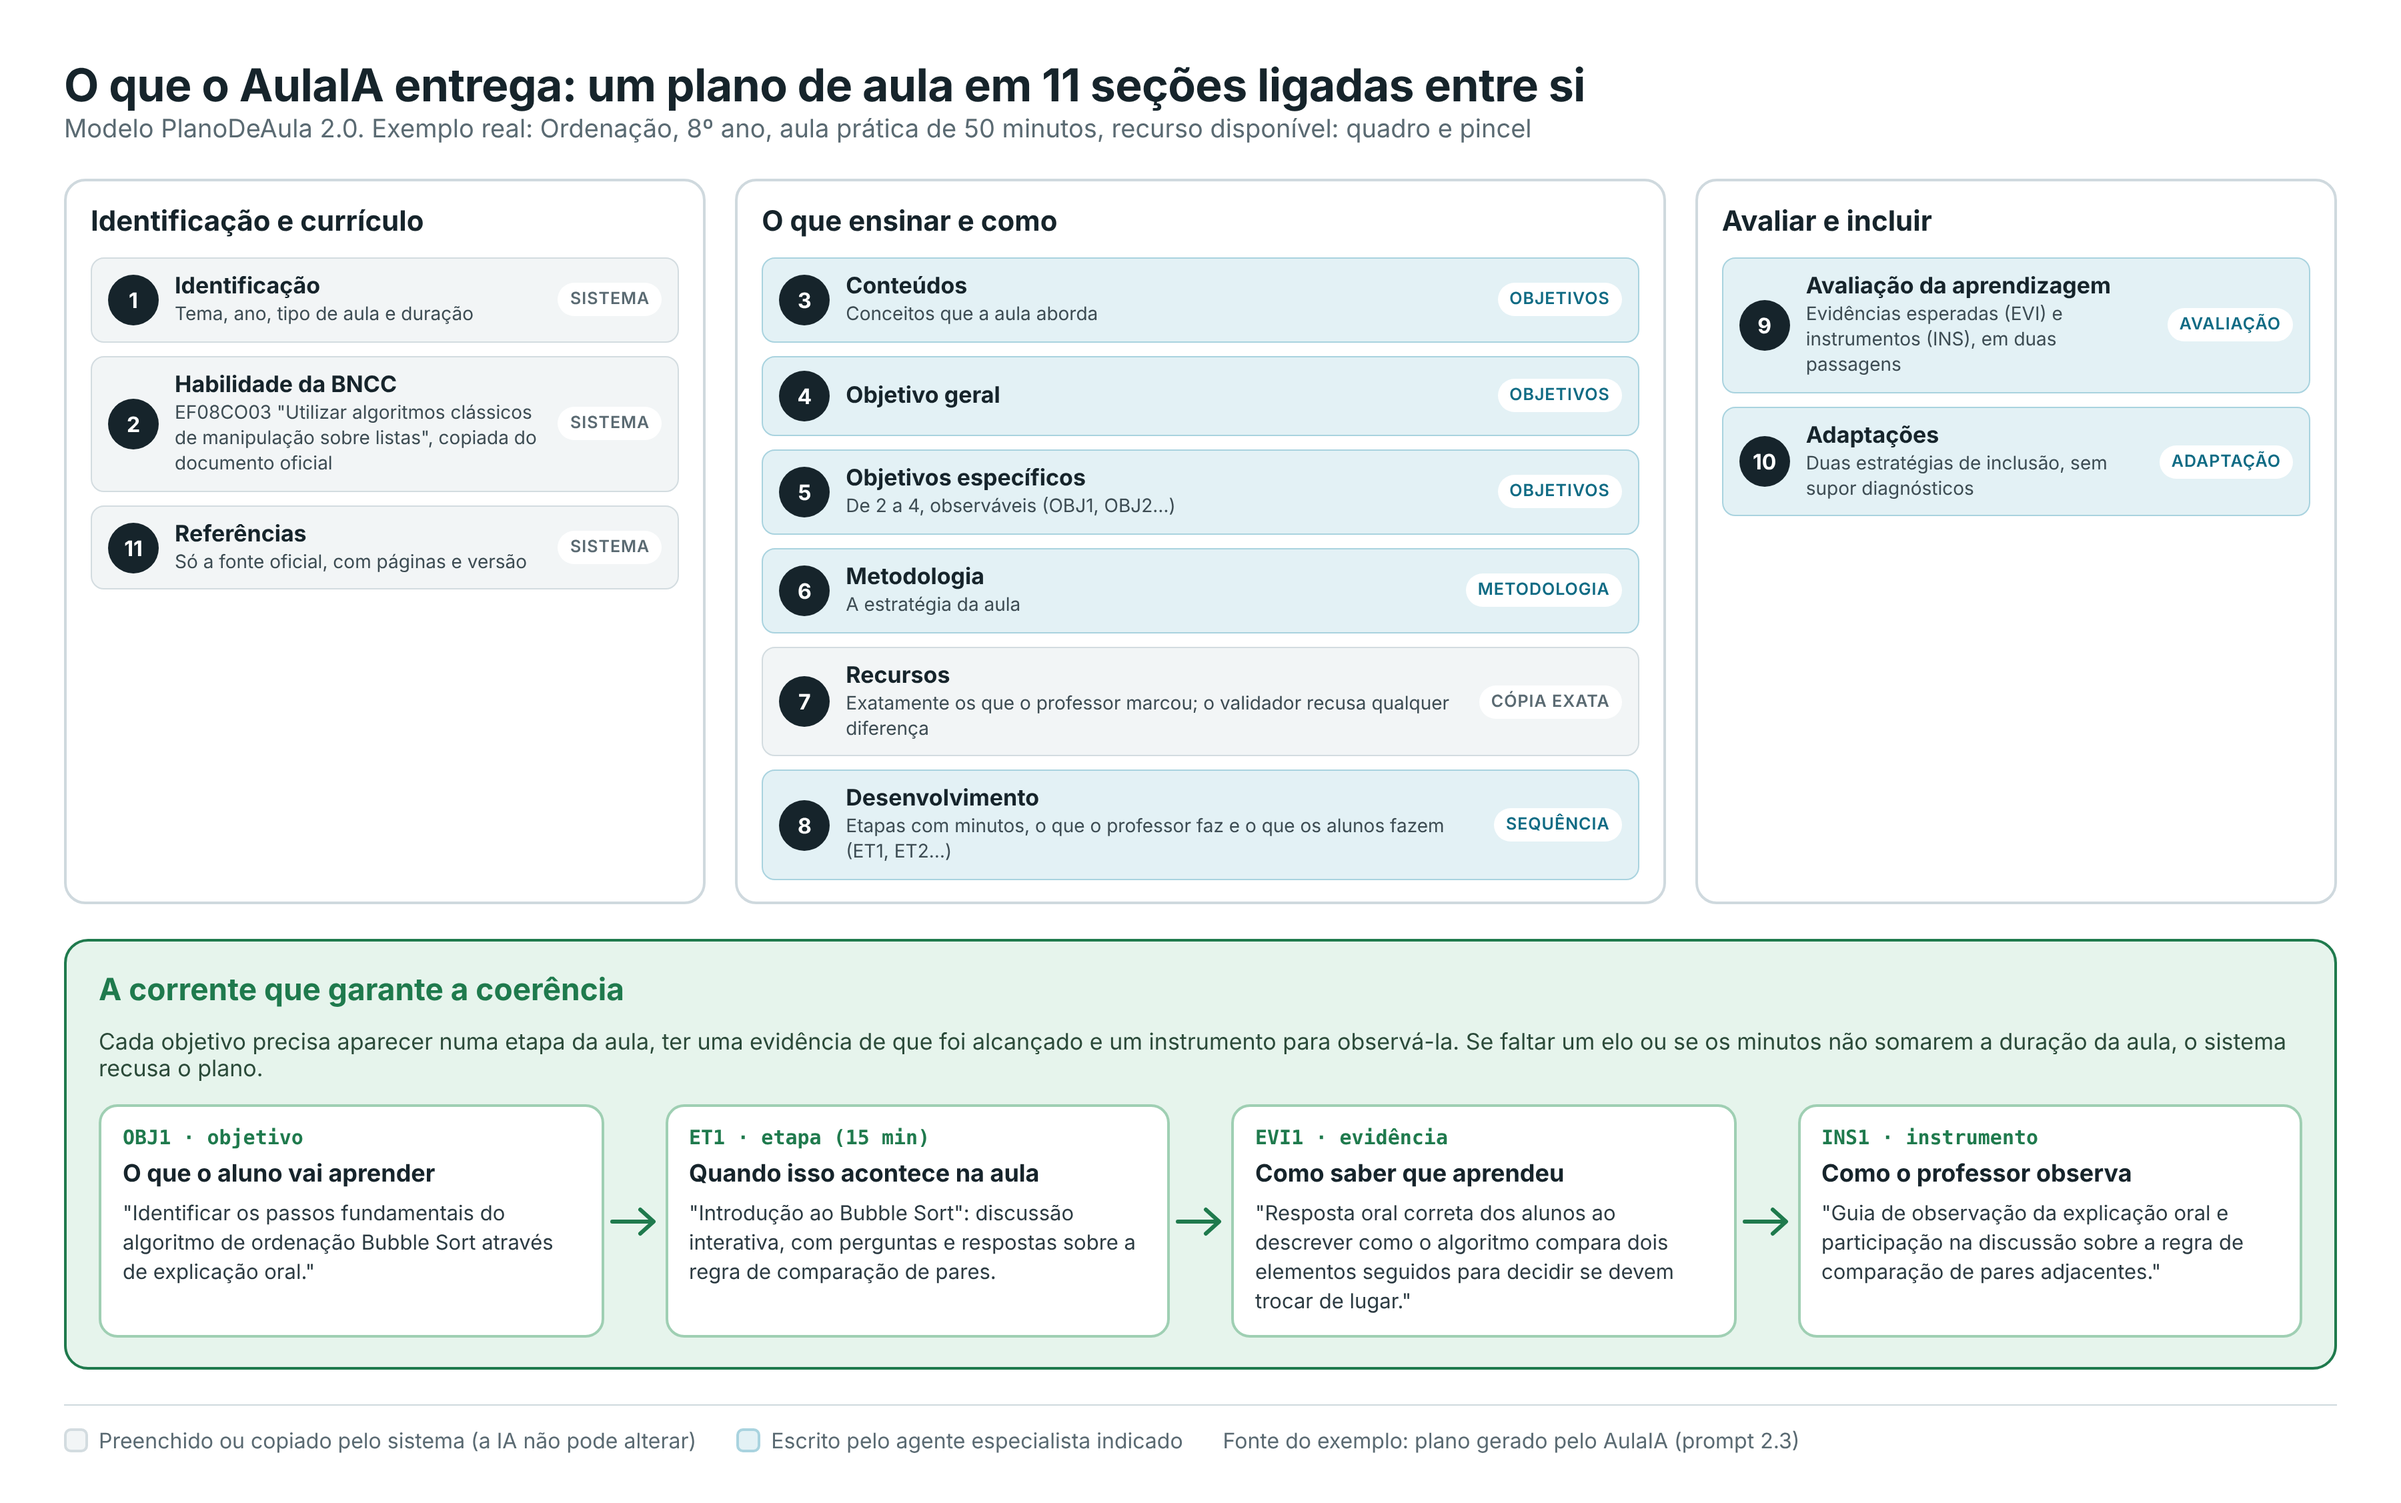
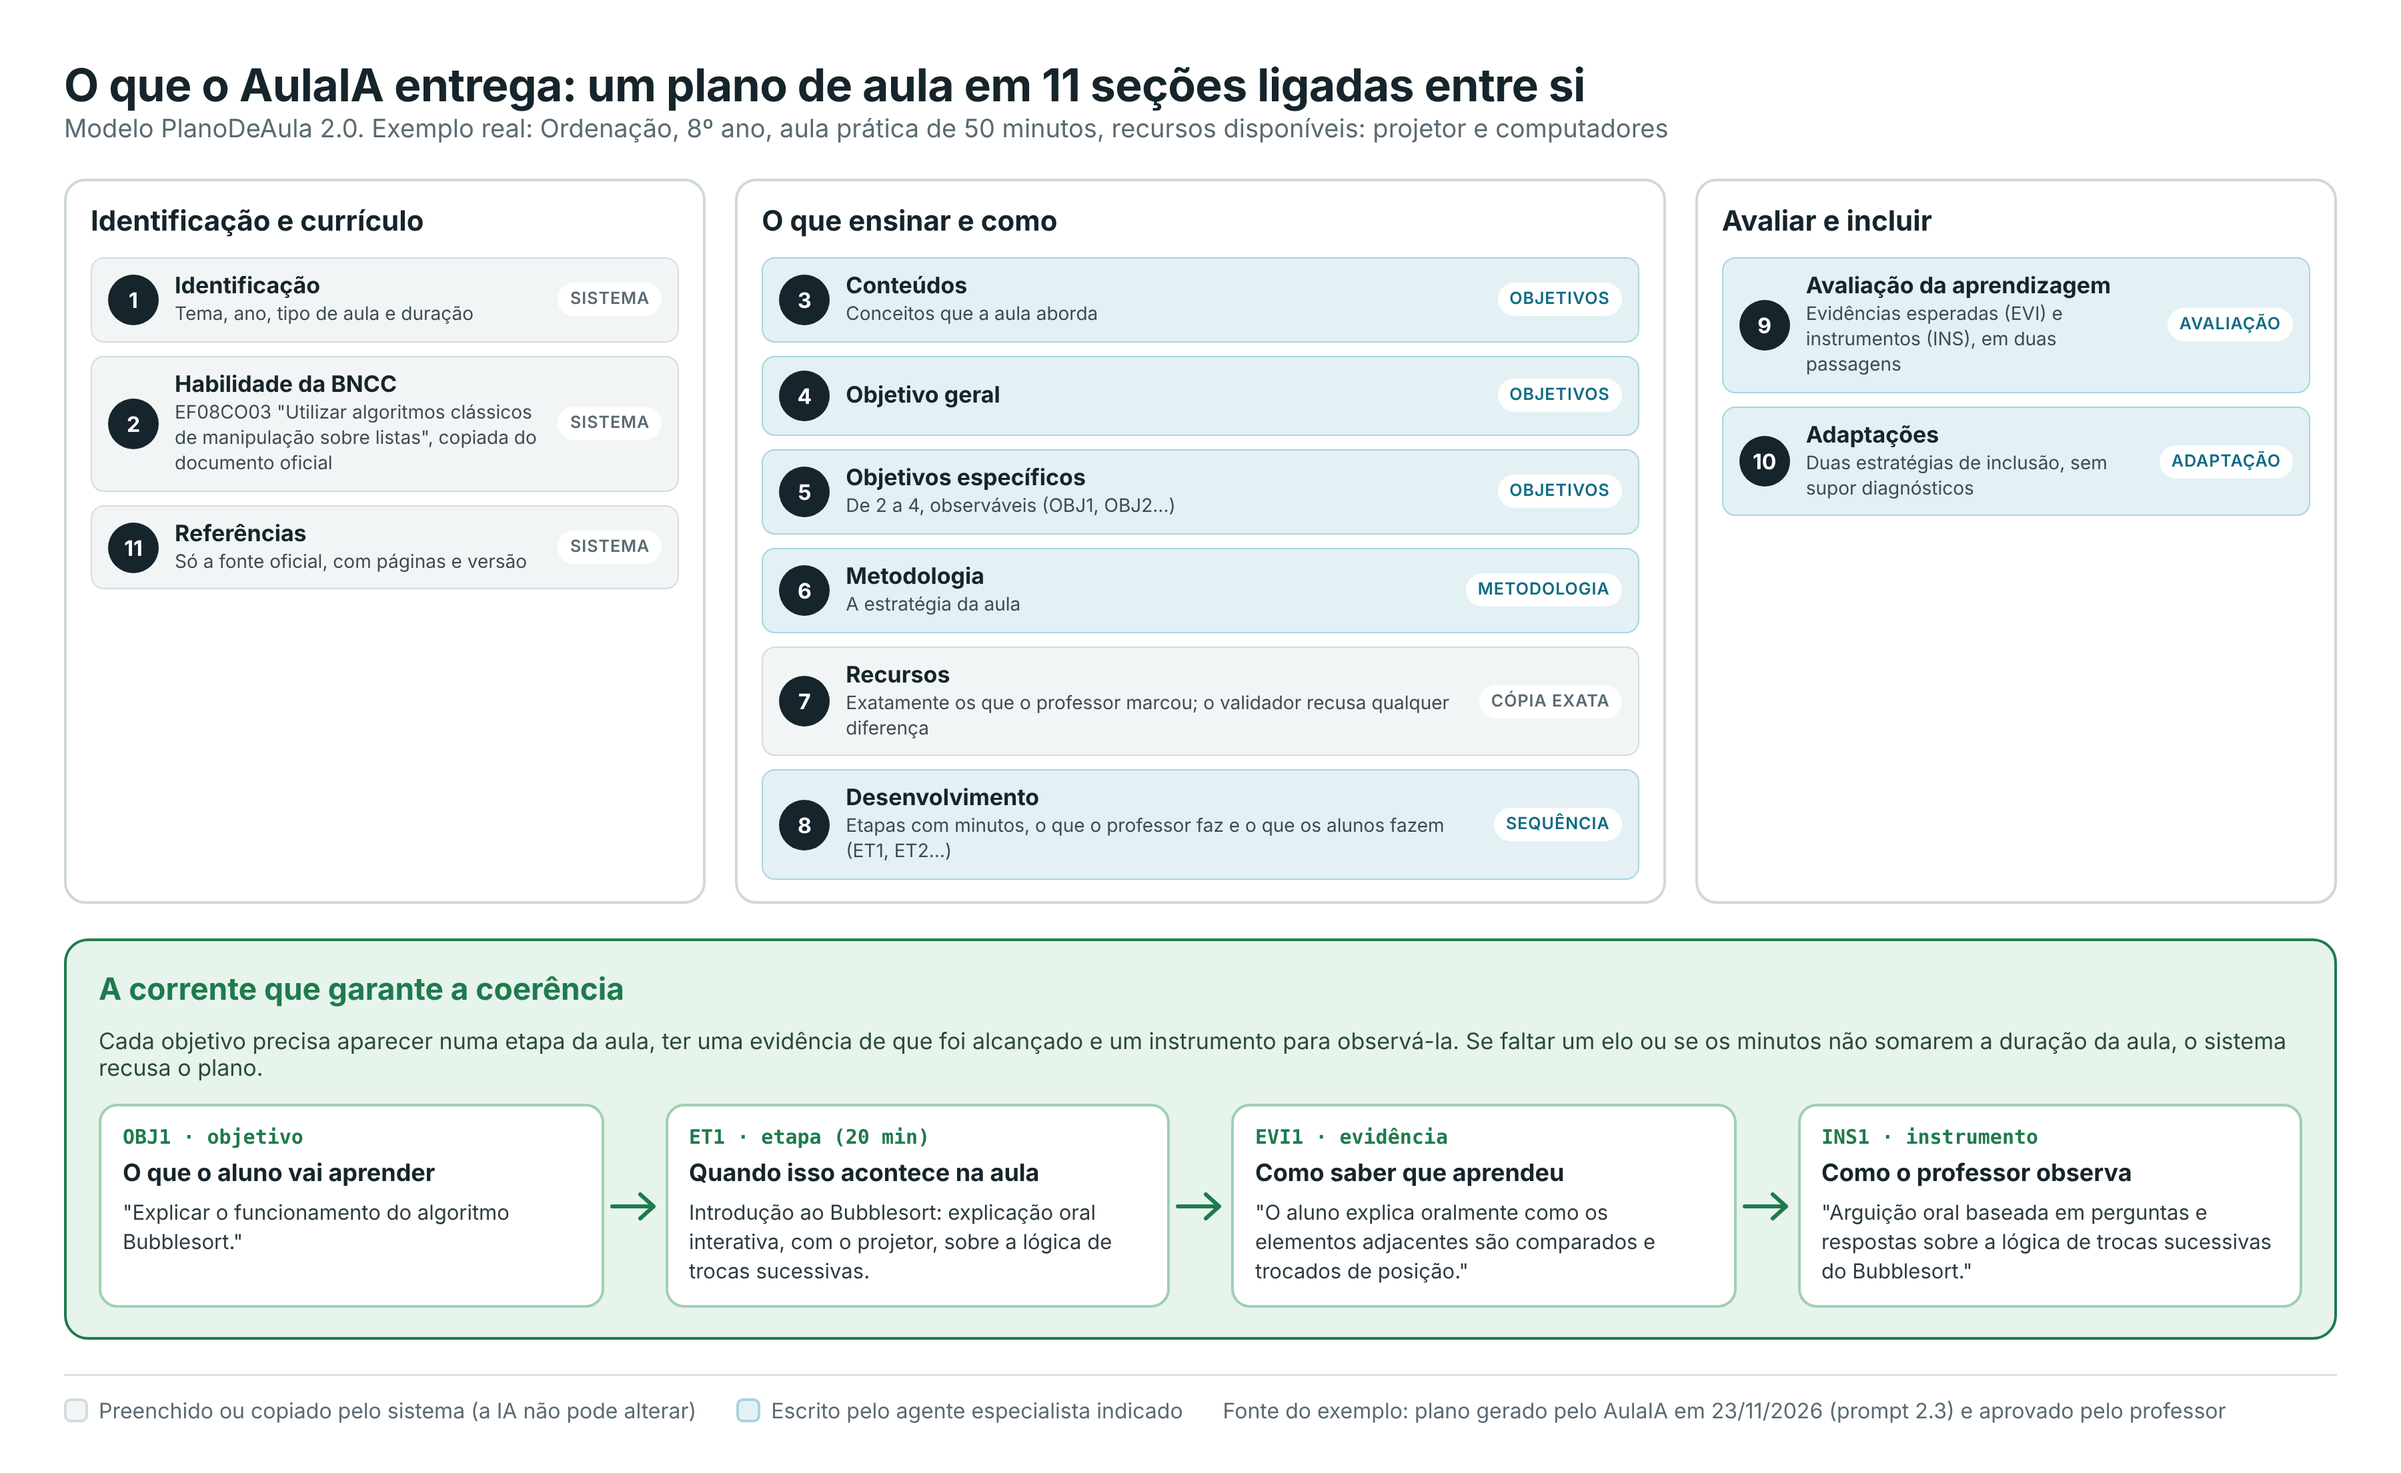
docs(diagramas): estrutura do plano com a execucao de 23/11 e visao geral sem 'aprovacao do Juiz'
- estrutura-plano: exemplo trocado pelo plano aprovado na execucao de 23/11/2026
  (Ordenacao, projetor e computadores, revisao 1), o mesmo das telas do Cap. 4
- visao-geral: 'sem aprovacao do Juiz' -> 'se nenhuma versao tiver parecer favoravel'
- diagramas-finais.md: nota de origem do exemplo atualizada

Claude-Session: https://claude.ai/code/session_01RJpZSqmn6bczZgZ2MS9zRR

Changed region(s): [[0.0311, 0.0312, 0.9956, 0.9679], [0.7156, 0.0937, 0.9644, 0.3747], [0.2178, 0.3434, 0.28, 0.3747]]

diff --git a/docs/diagramas/final/estrutura-plano.html b/docs/diagramas/final/estrutura-plano.html
@@ -1,7 +1,8 @@
 <!doctype html>
 <html lang="pt-BR"><head><meta charset="utf-8"><title>AulaIA — estrutura do plano de aula</title>
-<!-- Fonte da figura "Estrutura do plano de aula gerado". Exemplo real: experimentos/geracao/poc07b_planos_2_3/ordenacao_r1_917c3ba9.json
-     (Ordenação, aula prática, 50 min, quadro e pincel; prompt especialistas-plano-2.3; parecer favorável do Juiz na PoC 08). -->
+<!-- Fonte da figura "Estrutura do plano de aula gerado". Exemplo real: execução de 23/11/2026 pela interface (Gemini + Groq),
+     Ordenação, 8º ano, aula prática, 50 min, projetor e computadores; revisão 1 entregue com parecer "Com ressalvas" e aprovada pelo professor.
+     Mesma execução usada nas telas da Seção 4.2 do TCC (PDF exportado: Plano..pdf). Textos entre aspas são literais do plano. -->
 <style>
   :root{--ink:#16242b;--muted:#5a6a72;--line:#cfd9de;--ia:#0f6b84;--ia-bg:#e3f1f5;--regra:#5a6a72;--regra-bg:#f2f5f6;--elo:#1f7a4d;--elo-bg:#e6f4ec}
   *{box-sizing:border-box}
@@ -33,7 +34,7 @@
 <div class="fig">
   <div>
     <h1>O que o AulaIA entrega: um plano de aula em 11 seções ligadas entre si</h1>
-    <p class="sub">Modelo PlanoDeAula 2.0. Exemplo real: Ordenação, 8º ano, aula prática de 50 minutos, recurso disponível: quadro e pincel</p>
+    <p class="sub">Modelo PlanoDeAula 2.0. Exemplo real: Ordenação, 8º ano, aula prática de 50 minutos, recursos disponíveis: projetor e computadores</p>
   </div>
 
   <div class="grupos">
@@ -62,23 +63,23 @@
       Se faltar um elo ou se os minutos não somarem a duração da aula, o sistema recusa o plano.</p>
     <div class="elos">
       <div class="elo"><span class="id">OBJ1 · objetivo</span><h3>O que o aluno vai aprender</h3>
-        <p>"Identificar os passos fundamentais do algoritmo de ordenação Bubble Sort através de explicação oral."</p></div>
+        <p>"Explicar o funcionamento do algoritmo Bubblesort."</p></div>
       <div class="seta"><svg width="38" height="26" viewBox="0 0 38 26"><path d="M2 13h30M23 4l10 9-10 9" fill="none" stroke="#1f7a4d" stroke-width="3" stroke-linecap="round" stroke-linejoin="round"/></svg></div>
-      <div class="elo"><span class="id">ET1 · etapa (15 min)</span><h3>Quando isso acontece na aula</h3>
-        <p>"Introdução ao Bubble Sort": discussão interativa, com perguntas e respostas sobre a regra de comparação de pares.</p></div>
+      <div class="elo"><span class="id">ET1 · etapa (20 min)</span><h3>Quando isso acontece na aula</h3>
+        <p>Introdução ao Bubblesort: explicação oral interativa, com o projetor, sobre a lógica de trocas sucessivas.</p></div>
       <div class="seta"><svg width="38" height="26" viewBox="0 0 38 26"><path d="M2 13h30M23 4l10 9-10 9" fill="none" stroke="#1f7a4d" stroke-width="3" stroke-linecap="round" stroke-linejoin="round"/></svg></div>
       <div class="elo"><span class="id">EVI1 · evidência</span><h3>Como saber que aprendeu</h3>
-        <p>"Resposta oral correta dos alunos ao descrever como o algoritmo compara dois elementos seguidos para decidir se devem trocar de lugar."</p></div>
+        <p>"O aluno explica oralmente como os elementos adjacentes são comparados e trocados de posição."</p></div>
       <div class="seta"><svg width="38" height="26" viewBox="0 0 38 26"><path d="M2 13h30M23 4l10 9-10 9" fill="none" stroke="#1f7a4d" stroke-width="3" stroke-linecap="round" stroke-linejoin="round"/></svg></div>
       <div class="elo"><span class="id">INS1 · instrumento</span><h3>Como o professor observa</h3>
-        <p>"Guia de observação da explicação oral e participação na discussão sobre a regra de comparação de pares adjacentes."</p></div>
+        <p>"Arguição oral baseada em perguntas e respostas sobre a lógica de trocas sucessivas do Bubblesort."</p></div>
     </div>
   </div>
 
   <div class="rodape">
     <span><i class="sw" style="background:var(--regra-bg);border-color:#d3dce0"></i>Preenchido ou copiado pelo sistema (a IA não pode alterar)</span>
     <span><i class="sw" style="background:var(--ia-bg);border-color:#a9d3df"></i>Escrito pelo agente especialista indicado</span>
-    <span>Fonte do exemplo: plano gerado pelo AulaIA (prompt 2.3)</span>
+    <span>Fonte do exemplo: plano gerado pelo AulaIA em 23/11/2026 (prompt 2.3) e aprovado pelo professor</span>
   </div>
 </div>
 </body></html>

diff --git a/docs/diagramas/final/visao-geral.html b/docs/diagramas/final/visao-geral.html
@@ -74,7 +74,7 @@
   </div>
 
   <div class="loop"><svg viewBox="0 0 640 58" preserveAspectRatio="none"><path d="M560 0 V30 H80 V4" fill="none" stroke="#0f6b84" stroke-width="2.6" stroke-dasharray="7 6"/><path d="M72 12 L80 2 L88 12" fill="none" stroke="#0f6b84" stroke-width="2.6" stroke-linecap="round" stroke-linejoin="round"/></svg></div>
-  <p style="margin:-18px 0 0;font-size:16.5px;color:#0f6b84;text-align:center">Se o parecer não for favorável, o plano é escrito de novo uma vez; sem aprovação do Juiz, o professor recebe a melhor versão, com um aviso.</p>
+  <p style="margin:-18px 0 0;font-size:16.5px;color:#0f6b84;text-align:center">Se o parecer não for favorável, o plano é escrito de novo uma vez; se nenhuma versão tiver parecer favorável, o professor recebe a que tem menos falhas graves, com um aviso.</p>
 
   <div class="legend">
     <span><i class="sw" style="background:var(--hum-bg);border-color:var(--hum)"></i>Pessoa (o professor decide)</span>

diff --git a/docs/diagramas/diagramas-finais.md b/docs/diagramas/diagramas-finais.md
@@ -240,8 +240,9 @@ Para leitores sem formação técnica: cinco passos, com a separação entre pes
 ![Estrutura do plano](final/estrutura-plano.png)
 
 As 11 seções do PlanoDeAula 2.0, quem preenche cada uma e a corrente objetivo → etapa → evidência → instrumento, com trechos
-**literais** de um plano real (`experimentos/geracao/poc07b_planos_2_3/ordenacao_r1_917c3ba9.json`; o texto da etapa ET1 é resumido, só o
-título está entre aspas). Fonte: [`final/estrutura-plano.html`](final/estrutura-plano.html).
+**literais** do plano aprovado na execução de 23/11/2026 pela interface (Gemini + Groq; Ordenação, aula prática, 50 min, projetor e
+computadores; revisão 1, parecer "Com ressalvas"), a mesma usada nas telas do Cap. 4 do TCC. O texto da etapa ET1 é resumido; os demais
+estão entre aspas. Fonte: [`final/estrutura-plano.html`](final/estrutura-plano.html).
 
 ## Manutenção
 
